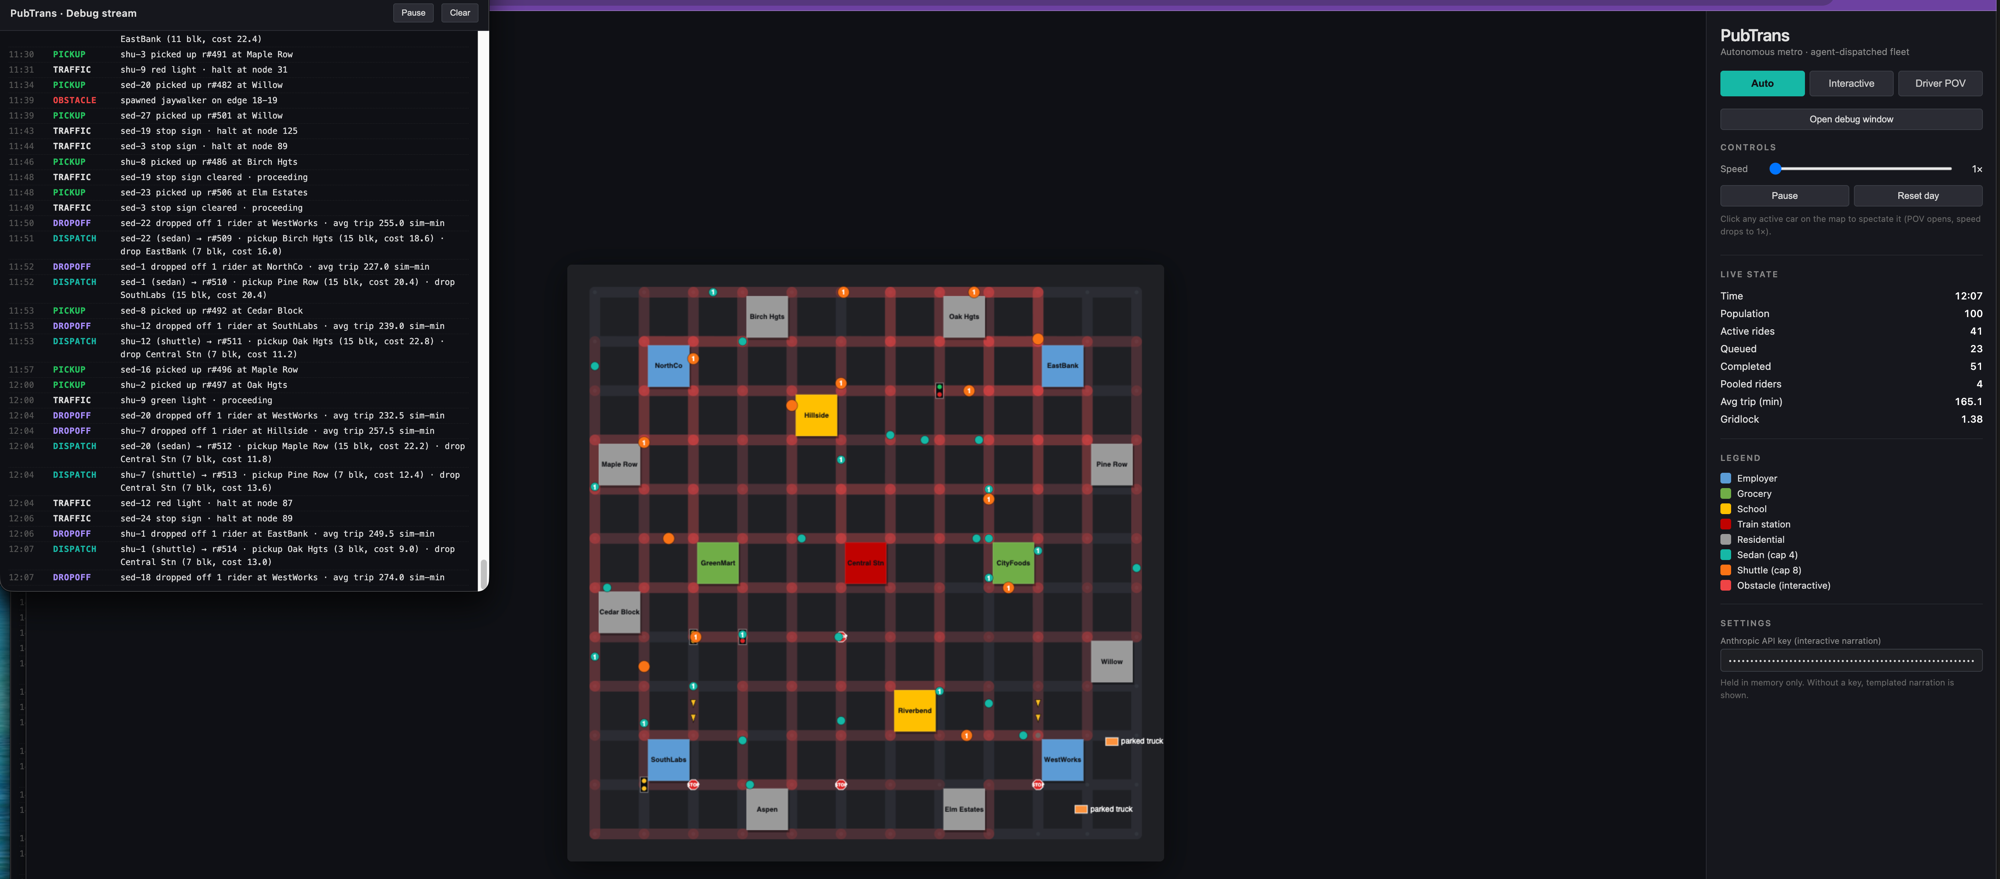
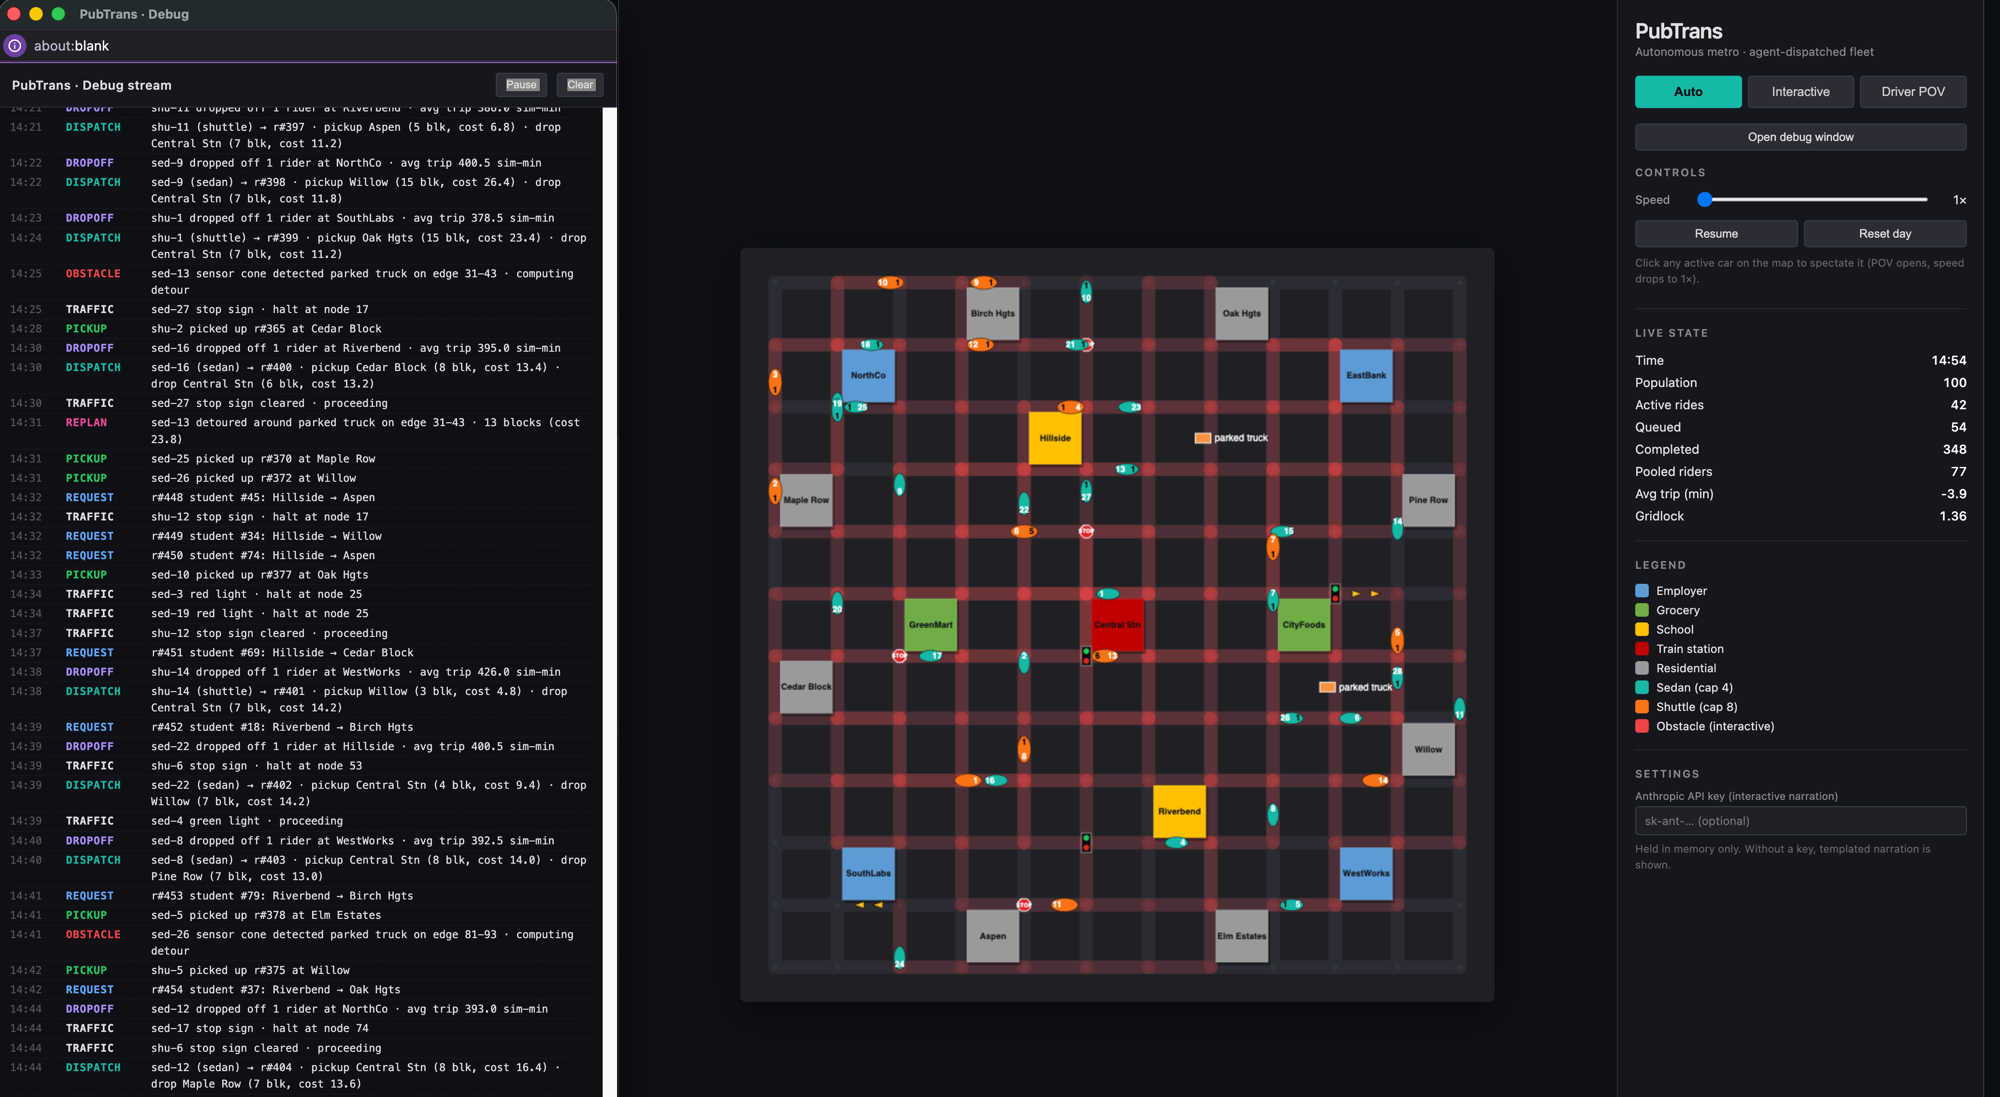
Replace README screenshots with current-state captures
New screenshots reflect the latest car rendering (oval bodies
with white car number at the leading edge + black passenger
count behind, larger FPV cars, "@ destination" in the HUD label).

- auto-mode-with-debug.png: Auto with debug window streaming —
  shows oval cars on the grid with their id+pax numbers, parked
  trucks at the curbs
- spectate-shuttle-fpv.png (was driver-pov-event-banner): shu-4
  spectate POV with HUD "EN ROUTE → DROPOFF @ Riverbend" and a
  MANUAL-DRIVEN obstacle ahead. Sidebar Spectating panel visible
- driver-pov-narration.png (was interactive-plan-narration):
  Driver POV mid-trip with k-shortest candidates, Sonnet 4.6
  reasoning about a three-way tie, FPV showing "EN ROUTE →
  DROPOFF @ Pine Row"

Captions rewritten to describe what each shot actually shows.

diff --git a/README.md b/README.md
@@ -8,17 +8,17 @@ Single-file HTML + Canvas + vanilla JS. no build step, package manager, dependen
 
 ## Screenshots
 
-Auto mode in flight, with the debug window open streaming dispatch, pickup, drop-off, traffic, and obstacle events:
+Auto mode in flight, with the debug window open streaming dispatch, pickup, drop-off, traffic, and obstacle events. Each car is an oval aligned with its travel direction — the white number at the leading edge is the car number (matches the `sed-N` / `shu-N` ids in the debug stream), the black number behind it is the current passenger count. Two parked trucks are visible on the curbs:
 
 ![Auto mode with debug window](docs/auto-mode-with-debug.png)
 
-Driver POV mode — wireframe first-person view alongside a mini-map, with a surge event banner announcing an outbound train at Central Station:
+Spectate — clicked shuttle `shu-4` on the grid and the FPV opened alongside a mini-map; sim continued at 1×. The HUD reads `EN ROUTE → DROPOFF @ Riverbend` and a `MANUAL-DRIVEN` obstacle (a non-fleet car) is sitting in the lane ahead. Sidebar's Spectating panel shows the focal car, its state, and rider count:
 
-![Driver POV with event banner](docs/driver-pov-event-banner.png)
+![Spectating shu-4 with a manual-driven car ahead](docs/spectate-shuttle-fpv.png)
 
-Interactive mode — three candidate routes drawn on the grid, plus Claude Sonnet 4.6 narration in the sidebar explaining why Route A was selected (lowest conflict count):
+Driver POV mode mid-trip — three candidate routes drawn on the mini-map (Route A highlighted green), Claude Sonnet 4.6 narration in the sidebar explaining the tiebreaker that selected Route A despite a three-way tie on the headline metrics, and the FPV showing the trip in progress with `EN ROUTE → DROPOFF @ Pine Row`:
 
-![Interactive plan with LLM narration](docs/interactive-plan-narration.png)
+![Driver POV with LLM narration](docs/driver-pov-narration.png)
 
 ## Install & run
 